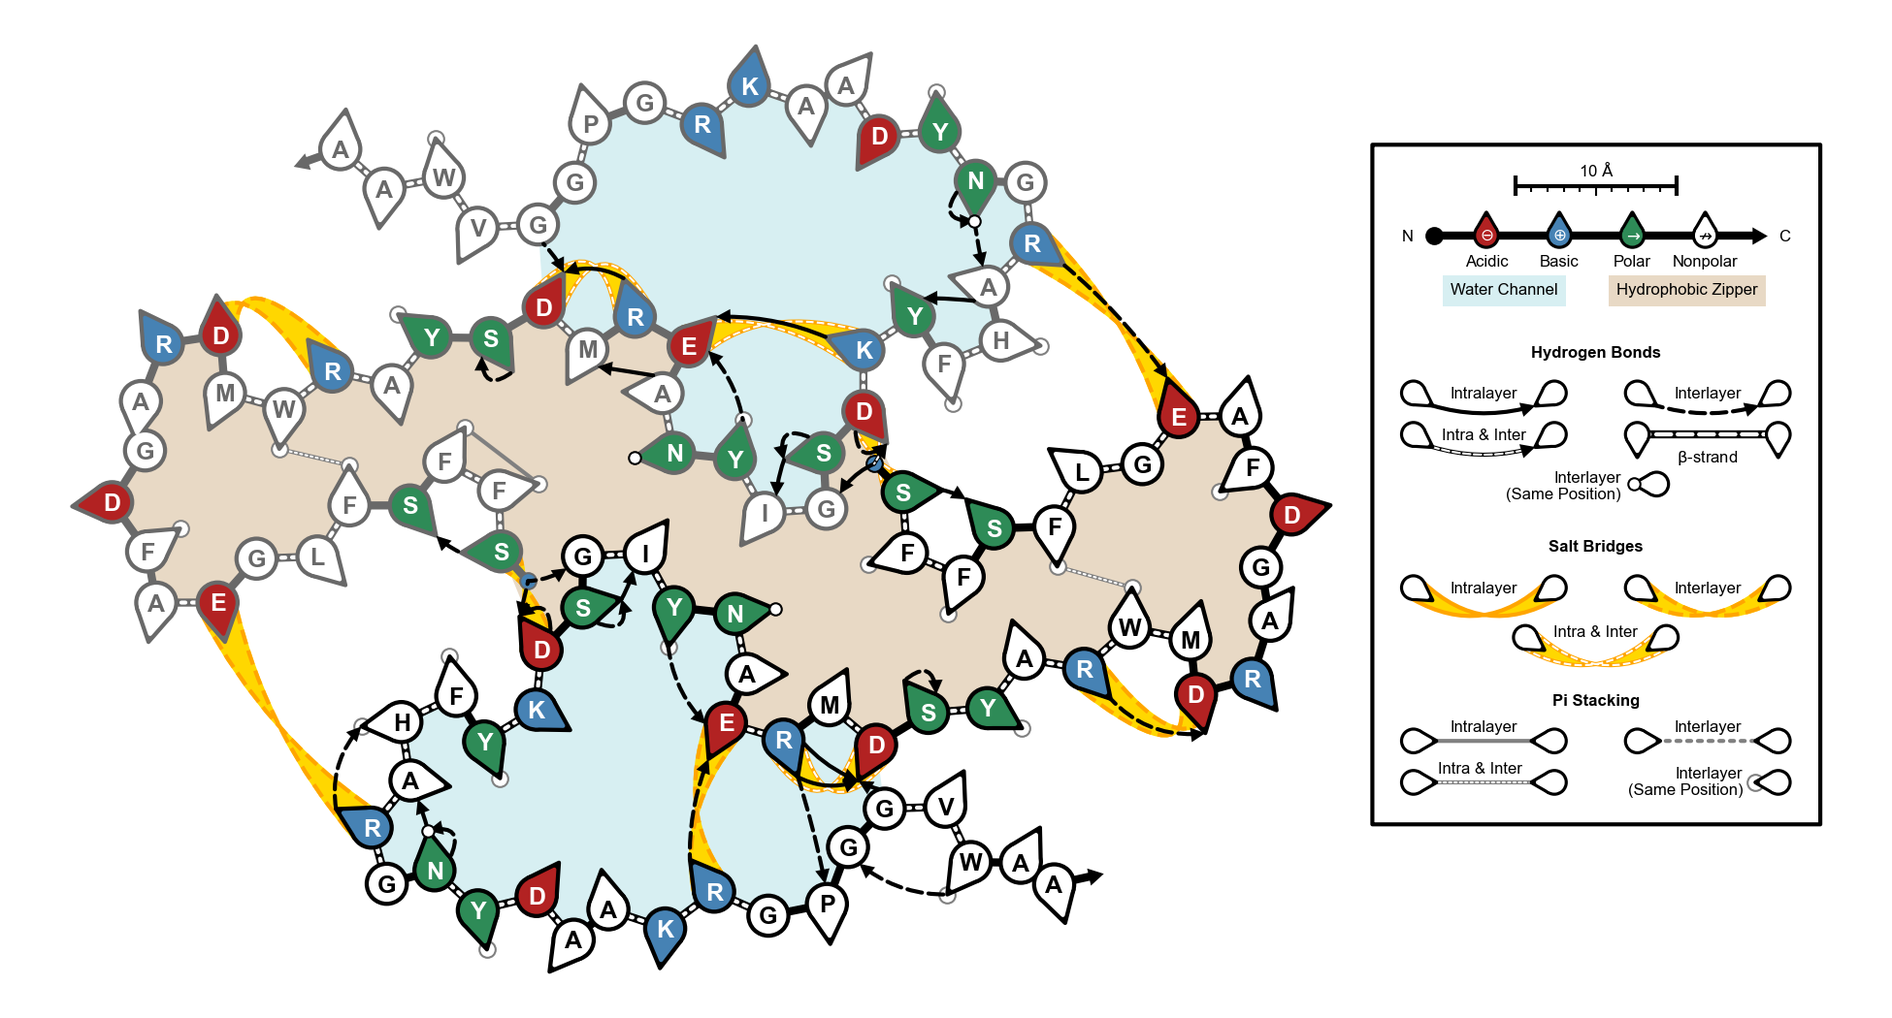
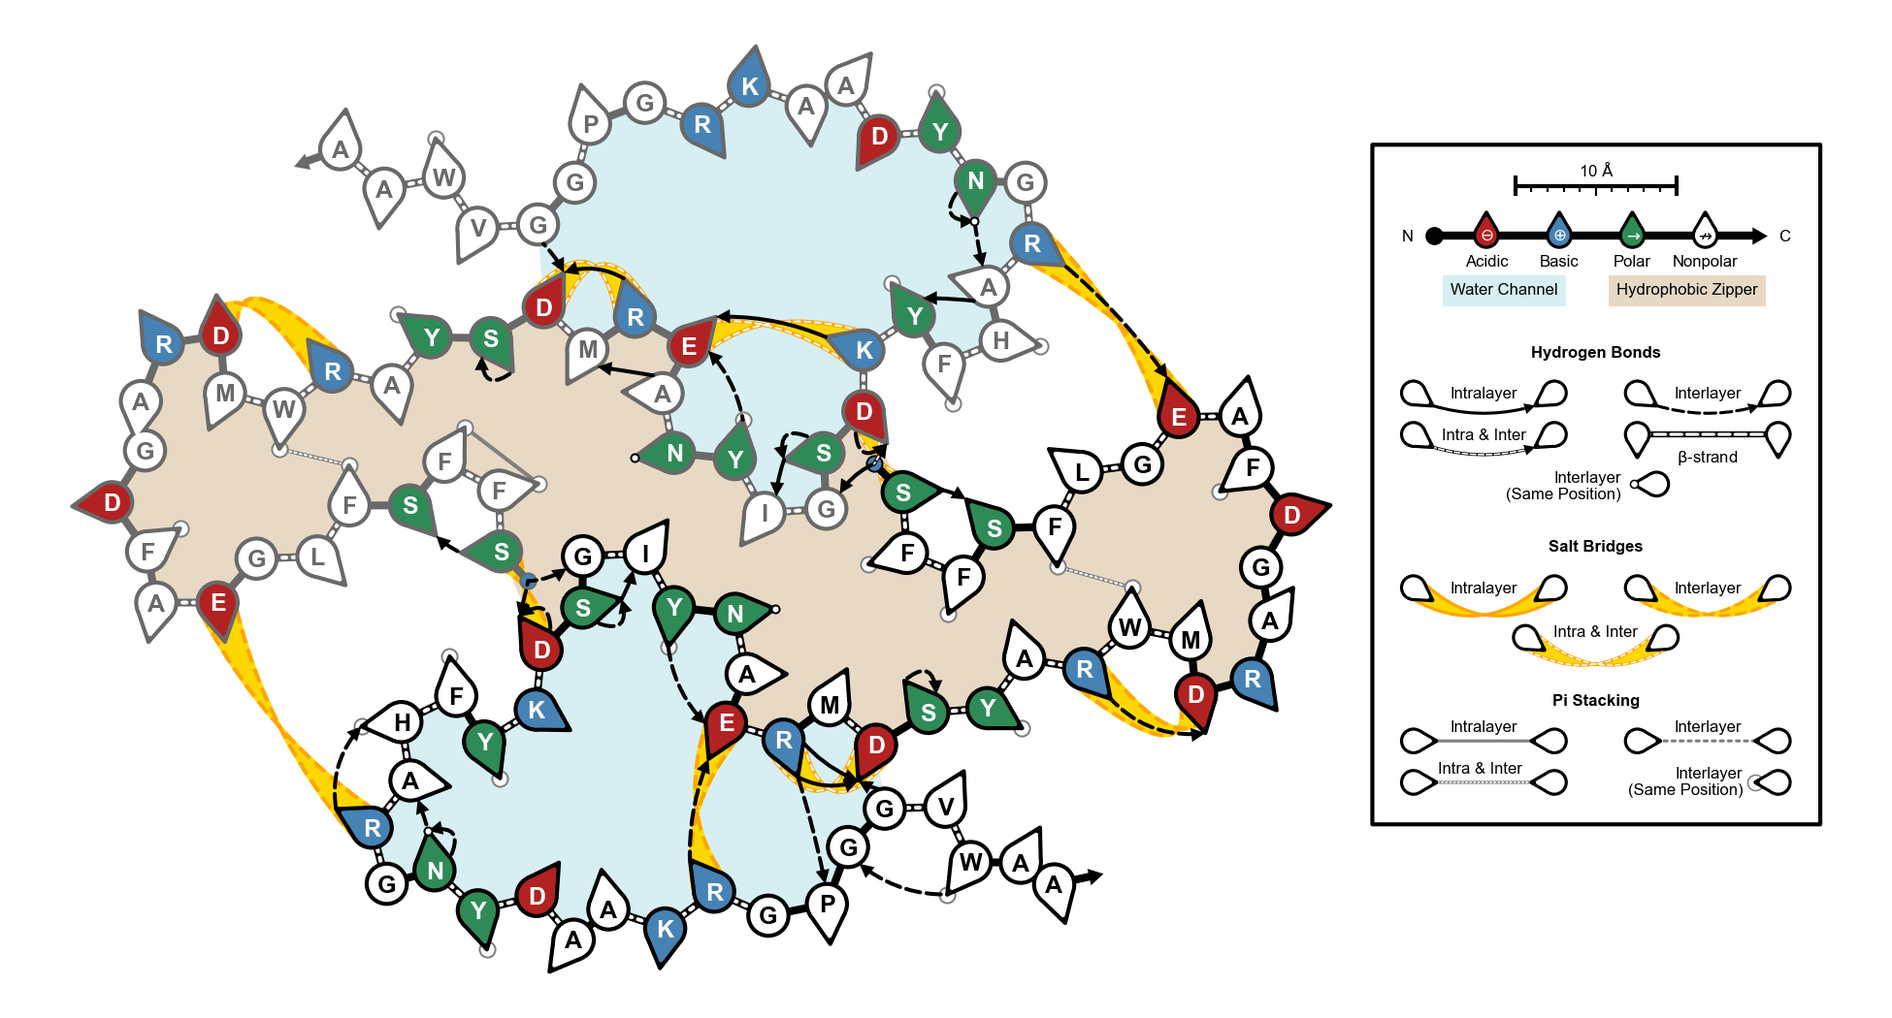
cosmetic changes

diff --git a/src/mapping.py b/src/mapping.py
@@ -642,7 +642,11 @@ class FibrilMap:
 
         # set the radius and underradius of the beads
         self.__underradius = temp_underradius*conversion_factor
-        self.__radius = self.__underradius-1
+        self.__radius = self.__underradius*0.8
+        self.__lw = self.__underradius - self.__radius
+        if self.__lw < 0.5:
+            self.__lw = 0.5
+            self.__radius = self.__underradius-0.5
 
         # Set fontsize
         mpl.rcParams['font.sans-serif'] = "Arial"
@@ -741,21 +745,21 @@ class FibrilMap:
 
         for chain in self.chains:
             # ADD LINE FOR EACH CHAIN
-            self.ax.plot(chain.ca_positions[:,0], chain.ca_positions[:,1], color=chain.color, linewidth=2, zorder=6)
+            self.ax.plot(chain.ca_positions[:,0], chain.ca_positions[:,1], color=chain.color, linewidth=self.__lw*2, zorder=6)
 
             # ADD C & N TERMINI MARKERS
             Cmarkerx, Cmarkery = _termini_marker_vector(chain.ca_positions[-1, :], chain.ct_position, self.__underradius)
             Nmarkerx, Nmarkery = _termini_marker_vector(chain.ca_positions[0, :], chain.nt_position, self.__underradius)
 
-            self.ax.plot(Cmarkerx, Cmarkery, color=chain.color, linewidth=2, solid_capstyle="butt", zorder=6) # Line to C-Terminal Marker
-            self.ax.plot(Nmarkerx, Nmarkery, color=chain.color, linewidth=2, solid_capstyle="butt", zorder=6) # Line to N-Terminal Marker
+            self.ax.plot(Cmarkerx, Cmarkery, color=chain.color, linewidth=self.__lw*2, solid_capstyle="butt", zorder=6) # Line to C-Terminal Marker
+            self.ax.plot(Nmarkerx, Nmarkery, color=chain.color, linewidth=self.__lw*2, solid_capstyle="butt", zorder=6) # Line to N-Terminal Marker
 
             chain.add_ct_position(np.array([Cmarkerx[1], Cmarkery[1]])) # Update C-terminal position to be position of marker
             chain.add_nt_position(np.array([Nmarkerx[1], Nmarkery[1]])) # Update N-terminal position to be position of marker
             self.ax.plot(chain.ct_position[0], chain.ct_position[1], markeredgecolor=chain.color, markerfacecolor=_term_color(self, chain.residues[-1]), 
-                         markersize=4, markeredgewidth=0.5, marker=(3,0,_C_termini_marker_direction(chain.ca_positions[-1, :], chain.ct_position)), zorder=6)
+                         markersize=self.__radius, markeredgewidth=self.__lw*0.5, marker=(3,0,_C_termini_marker_direction(chain.ca_positions[-1, :], chain.ct_position)), zorder=6)
             self.ax.plot(chain.nt_position[0], chain.nt_position[1], markeredgecolor=chain.color, markerfacecolor=_term_color(self, chain.residues[0]), 
-                         markersize=4, markeredgewidth=0.5, marker='o', zorder=6)
+                         markersize=self.__radius, markeredgewidth=self.__lw*0.5, marker='o', zorder=6)
 
             # ADD THE RESIDUES
             beadpatches, underbeadpatches = [], []
@@ -877,9 +881,9 @@ class FibrilMap:
         # ------------------------------------------------------------------------------
 
         if dca is None and apos is None and aca is None and dpos is not None: # Same position marker
-            self.ax.plot(dpos[0], dpos[1], marker='o', markersize=3, linestyle=None, 
+            self.ax.plot(dpos[0], dpos[1], marker='o', markersize=self.__radius*0.5, linestyle=None, 
                          markerfacecolor=self.__params.hbond_color_2, markeredgecolor=self.__params.hbond_color_1, 
-                         markeredgewidth=0.5, zorder=16)
+                         markeredgewidth=self.__lw*0.5, zorder=16)
             self.__legend_items["hbond"]["same"] = True 
 
         elif dca is not None and dpos is not None and aca is not None and apos is not None: # Regular
@@ -887,32 +891,32 @@ class FibrilMap:
             if intralayer: # Anytime there's an intralayer Hbond we draw this arrow
                 self.ax.annotate('', xy=dpos, xytext=apos, 
                                  arrowprops=dict(arrowstyle='-', fc='none', ec=self.__params.hbond_color_1, shrinkA=3, shrinkB=0, 
-                                                 linestyle="solid", linewidth=1, connectionstyle=f"arc3, rad={cdir*cmag}"), 
+                                                 linestyle="solid", linewidth=self.__lw, connectionstyle=f"arc3, rad={cdir*cmag}"), 
                                  zorder=12) # LINE
                 if interlayer: # Also interlayer
                     self.ax.annotate('', xy=dpos, xytext=apos, 
                                      arrowprops=dict(arrowstyle='-', fc='none', ec=self.__params.hbond_color_2, shrinkA=3, shrinkB=0, 
-                                                     linestyle="dashed", linewidth=0.5, connectionstyle=f"arc3, rad={cdir*cmag}"), 
+                                                     linestyle="dashed", linewidth=self.__lw*0.5, connectionstyle=f"arc3, rad={cdir*cmag}"), 
                                  zorder=12) # DASHED LINE
                     self.__legend_items["hbond"]["both"] = True 
                 self.ax.annotate('', xy=dpos, xytext=apos, 
                                  arrowprops=dict(arrowstyle='<|-', fc=self.__params.hbond_color_1, ec=self.__params.hbond_color_1, shrinkA=0, shrinkB=0, 
-                                                 linestyle='solid', mutation_scale=9, linewidth=0, connectionstyle=f"arc3, rad={cdir*cmag}"), 
+                                                 linestyle='solid', mutation_scale=self.__lw*9, linewidth=0, connectionstyle=f"arc3, rad={cdir*cmag}"), 
                                  zorder=12) # ARROWHEAD
 
             elif interlayer: # Intralayer only style (dashed)
                 self.ax.annotate('', xy=dpos, xytext=apos, 
                                  arrowprops=dict(arrowstyle='-', fc='none', ec=self.__params.hbond_color_1, shrinkA=3, shrinkB=0, 
-                                                 linestyle="dashed", linewidth=1, connectionstyle=f"arc3, rad={cdir*cmag}"),
+                                                 linestyle="dashed", linewidth=self.__lw, connectionstyle=f"arc3, rad={cdir*cmag}"),
                                  zorder=12) # LINE
                 self.ax.annotate('', xy=dpos, xytext=apos, 
                                  arrowprops=dict(arrowstyle='<|-', fc=self.__params.hbond_color_1, ec=self.__params.hbond_color_1, shrinkA=0, shrinkB=0, 
-                                                 linestyle='solid', mutation_scale=9, linewidth=0, connectionstyle=f"arc3, rad={cdir*cmag}"), 
+                                                 linestyle='solid', mutation_scale=self.__lw*9, linewidth=0, connectionstyle=f"arc3, rad={cdir*cmag}"), 
                                  zorder=12) # ARROWHEAD
 
         elif dpos is None and apos is None and dca is not None and aca is not None:
             self.ax.annotate('', xy=dca, xytext=aca, 
-                             arrowprops=dict(arrowstyle='-', fc='none', ec=self.__params.hbond_color_2, shrinkA=0, shrinkB=0, 
+                             arrowprops=dict(arrowstyle='-', fc='none', ec=self.__params.hbond_color_2, shrinkA=0, shrinkB=0, linewidth=self.__lw,
                                              linestyle="dotted", connectionstyle=f"arc3, rad=0"), 
                              zorder=6)
             self.__legend_items["hbond"]["backbone"] = True
@@ -1065,13 +1069,13 @@ class FibrilMap:
 
         patches = []
         if intralayer:
-            patches.append(PathPatch(path, facecolor=self.__params.saltbridge_color_1, edgecolor=self.__params.saltbridge_color_2, linewidth=1, linestyle="solid"))
+            patches.append(PathPatch(path, facecolor=self.__params.saltbridge_color_1, edgecolor=self.__params.saltbridge_color_2, linewidth=self.__lw, linestyle="solid"))
             if interlayer:
-                patches.append(PathPatch(path, facecolor="none", edgecolor=self.__params.saltbridge_color_3, linewidth=0.5, linestyle="dashed"))
+                patches.append(PathPatch(path, facecolor="none", edgecolor=self.__params.saltbridge_color_3, linewidth=self.__lw*0.5, linestyle="dashed"))
                 self.__legend_items["sb"]["both"] = True
         elif interlayer:
-            patches.append(PathPatch(path, facecolor=self.__params.saltbridge_color_1, edgecolor=self.__params.saltbridge_color_1, linewidth=1, linestyle="solid"))
-            patches.append(PathPatch(path, facecolor="none", edgecolor=self.__params.saltbridge_color_2, linewidth=1, linestyle="dashed"))
+            patches.append(PathPatch(path, facecolor=self.__params.saltbridge_color_1, edgecolor=self.__params.saltbridge_color_1, linewidth=self.__lw, linestyle="solid"))
+            patches.append(PathPatch(path, facecolor="none", edgecolor=self.__params.saltbridge_color_2, linewidth=self.__lw, linestyle="dashed"))
 
         self.ax.add_collection(PatchCollection(patches, match_original=True, zorder=4)) #6
         self.__legend_items["sb"]["section"] = True
@@ -1156,23 +1160,23 @@ class FibrilMap:
         if sc1 is not None and sc2 is None: # Place same residue marker
             self.ax.plot(sc1[0], sc1[1], linestyle=None, color=self.__params.pistacking_color_2, zorder=8, marker='o', 
                          markerfacecolor=self.__params.pistacking_color_2, markerfacecoloralt=self.__params.pistacking_color_2, 
-                         markeredgecolor=self.__params.pistacking_color_1, fillstyle='full', markersize=4, markeredgewidth=0.5)
+                         markeredgecolor=self.__params.pistacking_color_1, fillstyle='full', markersize=self.__radius, markeredgewidth=self.__lw*0.5)
             self.__legend_items["pipi"]["same"] = True
         elif intralayer:
             self.ax.annotate('', xy=sc1, xytext=sc2, 
                              arrowprops=dict(arrowstyle='-', fc='none', ec=self.__params.pistacking_color_1, shrinkA=0, shrinkB=0, 
-                                             linestyle="solid", linewidth=1, connectionstyle=f"arc3, rad=0"), 
+                                             linestyle="solid", linewidth=self.__lw, connectionstyle=f"arc3, rad=0"), 
                              zorder=6)
             if interlayer:
                 self.ax.annotate('', xy=sc1, xytext=sc2, 
                                  arrowprops=dict(arrowstyle='-', fc='none', ec=self.__params.pistacking_color_2, shrinkA=0, shrinkB=0, 
-                                                 linestyle="dotted", linewidth=0.5, connectionstyle=f"arc3, rad=0"), 
+                                                 linestyle="dotted", linewidth=self.__lw*0.5, connectionstyle=f"arc3, rad=0"), 
                                  zorder=6)
                 self.__legend_items["pipi"]["both"] = True
         elif interlayer:
             self.ax.annotate('', xy=sc1, xytext=sc2, 
                              arrowprops=dict(arrowstyle='-', fc='none', ec=self.__params.pistacking_color_1, shrinkA=0, shrinkB=0, 
-                                             linestyle="dotted", linewidth=1, connectionstyle=f"arc3, rad=0"), 
+                                             linestyle="dotted", linewidth=self.__lw, connectionstyle=f"arc3, rad=0"), 
                              zorder=6)
         self.__legend_items["pipi"]["section"] = True
 
@@ -1264,6 +1268,9 @@ class FibrilMap:
         starty = self.__legend_bottomleft[1]+self.__legend_dims[1]
         safe_width = self.__legend_dims[0]-20
 
+        # Also set lw to legend size
+        self.__lw = 0.75
+
         # Second, add the main components
         # Distance Indicator
         marker_pos = [np.linspace(currentx+(safe_width/2)-self.__legend_1nm/2, currentx+(safe_width/2)+self.__legend_1nm/2, 11), [currenty]*11]
@@ -1318,7 +1325,7 @@ class FibrilMap:
         
         if self.__legend_items["main"]["zipper"] or self.__legend_items["main"]["water"]:
             currenty -= 10
-
+        
         # Third, Add Hydrogen Bond information
         if self.__legend_items["hbond"]["section"]:
             currenty -= 5
@@ -1333,10 +1340,10 @@ class FibrilMap:
             self.ax.annotate("Intralayer", [currentx+((safe_width/2)-10)/2, currenty], fontsize=4, ha='center', va='center_baseline', zorder=2)
             self.ax.annotate('', xy=res1.sc_anchor, xytext=res2.sc_anchor, 
                                  arrowprops=dict(arrowstyle='-', fc='none', ec=self.__params.hbond_color_1, shrinkA=3, shrinkB=0, 
-                                                 linestyle="solid", linewidth=1, connectionstyle=f"arc3, rad=-0.15"), zorder=2) # LINE
+                                                 linestyle="solid", linewidth=self.__lw, connectionstyle=f"arc3, rad=-0.15"), zorder=2) # LINE
             self.ax.annotate('', xy=res1.sc_anchor, xytext=res2.sc_anchor, 
                                 arrowprops=dict(arrowstyle='<|-', fc=self.__params.hbond_color_1, ec=self.__params.hbond_color_1, shrinkA=0, shrinkB=0, 
-                                                linestyle='solid', mutation_scale=9, linewidth=0, connectionstyle=f"arc3, rad=-0.15"), zorder=2) # ARROWHEAD
+                                                linestyle='solid', mutation_scale=self.__lw*9, linewidth=0, connectionstyle=f"arc3, rad=-0.15"), zorder=2) # ARROWHEAD
             
             res1 = Residue(None, "", np.array([currentx+(safe_width/2)+10, currenty]), np.array([currentx+(safe_width/2)+13, currenty-2]), 2, 2.75, "black", "white", "white", legend_residue=True)
             res2 = Residue(None, "", np.array([currentx+safe_width, currenty]), np.array([currentx+safe_width-3, currenty-2]), 2, 2.75, "black", "white", "white", legend_residue=True)
@@ -1345,10 +1352,10 @@ class FibrilMap:
             self.ax.annotate("Interlayer", [currentx+((3*safe_width)/4)+5, currenty], fontsize=4, ha='center', va='center_baseline', zorder=2)
             self.ax.annotate('', xy=res1.sc_anchor, xytext=res2.sc_anchor, 
                                  arrowprops=dict(arrowstyle='-', fc='none', ec=self.__params.hbond_color_1, shrinkA=3, shrinkB=0, 
-                                                 linestyle="dashed", linewidth=1, connectionstyle=f"arc3, rad=-0.15"), zorder=2) # LINE
+                                                 linestyle="dashed", linewidth=self.__lw, connectionstyle=f"arc3, rad=-0.15"), zorder=2) # LINE
             self.ax.annotate('', xy=res1.sc_anchor, xytext=res2.sc_anchor, 
                                 arrowprops=dict(arrowstyle='<|-', fc=self.__params.hbond_color_1, ec=self.__params.hbond_color_1, shrinkA=0, shrinkB=0, 
-                                                linestyle='solid', mutation_scale=9, linewidth=0, connectionstyle=f"arc3, rad=-0.15"), zorder=2) # ARROWHEAD
+                                                linestyle='solid', mutation_scale=self.__lw*9, linewidth=0, connectionstyle=f"arc3, rad=-0.15"), zorder=2) # ARROWHEAD
             currenty -= 10
 
             if self.__legend_items["hbond"]["both"] and self.__legend_items["hbond"]["backbone"]:
@@ -1367,20 +1374,20 @@ class FibrilMap:
                 self.ax.annotate("Intra & Inter", [bothx+((safe_width/2)-10)/2, currenty], fontsize=4, ha='center', va='center_baseline', zorder=2)
                 self.ax.annotate('', xy=res1.sc_anchor, xytext=res2.sc_anchor, 
                                     arrowprops=dict(arrowstyle='-', fc='none', ec=self.__params.hbond_color_1, shrinkA=3, shrinkB=0, 
-                                                    linestyle="solid", linewidth=1, connectionstyle=f"arc3, rad=-0.15"), zorder=2) # LINE
+                                                    linestyle="solid", linewidth=self.__lw, connectionstyle=f"arc3, rad=-0.15"), zorder=2) # LINE
                 self.ax.annotate('', xy=res1.sc_anchor, xytext=res2.sc_anchor, 
                                  arrowprops=dict(arrowstyle='-', fc='none', ec=self.__params.hbond_color_2, shrinkA=3, shrinkB=0, 
-                                            linestyle="dashed", linewidth=0.5, connectionstyle=f"arc3, rad=-0.15"), zorder=2) # DASHED LINE
+                                            linestyle="dashed", linewidth=self.__lw*0.5, connectionstyle=f"arc3, rad=-0.15"), zorder=2) # DASHED LINE
                 self.ax.annotate('', xy=res1.sc_anchor, xytext=res2.sc_anchor, 
                                     arrowprops=dict(arrowstyle='<|-', fc=self.__params.hbond_color_1, ec=self.__params.hbond_color_1, shrinkA=0, shrinkB=0, 
-                                                    linestyle='solid', mutation_scale=9, linewidth=0, connectionstyle=f"arc3, rad=-0.15"), zorder=2) # ARROWHEAD
+                                                    linestyle='solid', mutation_scale=self.__lw*9, linewidth=0, connectionstyle=f"arc3, rad=-0.15"), zorder=2) # ARROWHEAD
                 
             if self.__legend_items["hbond"]["backbone"]:
                 res1 = Residue(None, "", np.array([backbonex, currenty]), np.array([backbonex, currenty-2]), 2, 2.75, "black", "white", "white", legend_residue=True)
                 res2 = Residue(None, "", np.array([backbonex+(safe_width/2)-10, currenty]), np.array([backbonex+(safe_width/2)-10, currenty-2]), 2, 2.75, "black", "white", "white", legend_residue=True)
-                self.ax.plot([res1.ca_position, res2.ca_position], [currenty]*2, color="black", linewidth=2, zorder=2)
+                self.ax.plot([res1.ca_position, res2.ca_position], [currenty]*2, color="black", linewidth=self.__lw*2, zorder=2)
                 self.ax.annotate('', xy=res1.ca_position, xytext=res2.ca_position, 
-                             arrowprops=dict(arrowstyle='-', fc='none', ec=self.__params.hbond_color_2, shrinkA=0, shrinkB=0, 
+                             arrowprops=dict(arrowstyle='-', fc='none', ec=self.__params.hbond_color_2, shrinkA=0, shrinkB=0, linewidth=self.__lw,
                                              linestyle="dashed", connectionstyle=f"arc3, rad=0"), zorder=2)
                 _legend_residue(self.ax, res1)
                 _legend_residue(self.ax, res2)
@@ -1395,9 +1402,9 @@ class FibrilMap:
                 samex = currentx + 2*safe_width/3 
                 residue = Residue(None, "", np.array([samex, currenty]), np.array([samex-3, currenty]), 2, 2.75, "black", "white", "white", legend_residue=True)
                 _legend_residue(self.ax, residue)
-                self.ax.plot(residue.sc_anchor[0], residue.sc_anchor[1], marker='o', markersize=3, linestyle=None, 
+                self.ax.plot(residue.sc_anchor[0], residue.sc_anchor[1], marker='o', markersize=self.__radius*0.5, linestyle=None, 
                              markerfacecolor=self.__params.hbond_color_2, markeredgecolor=self.__params.hbond_color_1, 
-                             markeredgewidth=0.5, zorder=16)
+                             markeredgewidth=self.__lw*0.5, zorder=16)
                 self.ax.annotate("Interlayer\n(Same Position)", [residue.sc_anchor[0]-3, currenty], fontsize=4, ha='right', va='center_baseline', zorder=2)
                 currenty -= 10
             

diff --git a/src/io.py b/src/io.py
@@ -972,7 +972,7 @@ class Params:
         input_file : Str
             Name of input file or checkpoint file
         '''
-        used_exclusives = {"backup":False, "nobackup":False, "log": False, "nolog":False, "saveraw":False, "nosaveraw":False, "hbond_n_cutoff": False, "hbond_p_cutoff": False}
+        used_exclusives = {"backup":False, "nobackup":False, "log": False, "nolog":False, "saveraw":False, "nosaveraw":False, "hbond_n_cutoff": False, "hbond_p_cutoff": False, "legend": False, "nolegend": False}
         found_keys = []
         with open(input_file) as file:
             for li, line in enumerate(file.readlines()):
@@ -1015,6 +1015,8 @@ class Params:
             raise SystemExit(f"Parameter Error: {input_file}: Cannot set saveraw and nosaveraw at the same time.")
         if used_exclusives["hbond_n_cutoff"] and used_exclusives["hbond_p_cutoff"]:
             raise SystemExit(f"Parameter Error: {input_file}: Cannot set hbond_n_cutoff and hbond_p_cutoff at the same time.")
+        if used_exclusives["legend"] and used_exclusives["nolegend"]:
+            raise SystemExit(f"Parameter Error: {input_file}: Cannot set legend and nolegend at the same time.")
 
     def _compare_checkpoints(self):
         '''
@@ -1154,6 +1156,7 @@ class Params:
                 "figure_width":[6.5, _positive_float],
                 "figure_height":[4.5, _positive_float],
                 "legend":[True, _valid_bool],
+                "nolegend":[False, _valid_bool],
                 "figure_dpi":[300, _positive_int],
                 "acidic_color":["firebrick", _valid_color_nochain],
                 "acidic_label_color":["white", _valid_color_orchain],
@@ -1257,7 +1260,7 @@ class Params:
             del self.saltbridge_p_cutoff
             del self.pistacking_p_cutoff
         
-        # Reconcile nobackup/backup and log/nolog and saveraw/nosaveraw
+        # Reconcile nobackup/backup and log/nolog and saveraw/nosaveraw and legend/nolegend
         if self.backup == True:
             self.nobackup = False
         if self.nolog == True:
@@ -1265,6 +1268,9 @@ class Params:
         if self.command == "calc" and self.saveraw == True:
             self.nosaveraw = False
             del self.saveraw
+        if self.command =="map" and self.nolegend == True:
+            self.legend = False
+            del self.nolegend
         del self.backup
         del self.nolog
 

diff --git a/FibMap.py b/FibMap.py
@@ -379,6 +379,15 @@ def main():
                             default=None,
                             help=f'(OPTIONAL, Default: None, Type: Float >= 0 and <= 1) Individually set the probability cutoff for pi stacking interactions. If not set, p_cutoff will be used. (TIP: To hide all pi stacking interactions, set this value to 1).'
                             )
+    map_legend_group = map_output.add_mutually_exclusive_group()
+    map_legend_group.add_argument("--legend", 
+                                  action="store_true",
+                                  help="(OPTIONAL, Default=legend) If used, a legend will be included in the figure."
+                                  )
+    map_legend_group.add_argument("--nolegend", 
+                                  action="store_true",
+                                  help="(OPTIONAL, Default=legend) If used, a legend will not be included in the figure."
+                                  )
     map_options.add_argument("--nprocs", 
                             type=io.ap_cpu_int, # must be -1, -2, or positive integer
                             default=1,
